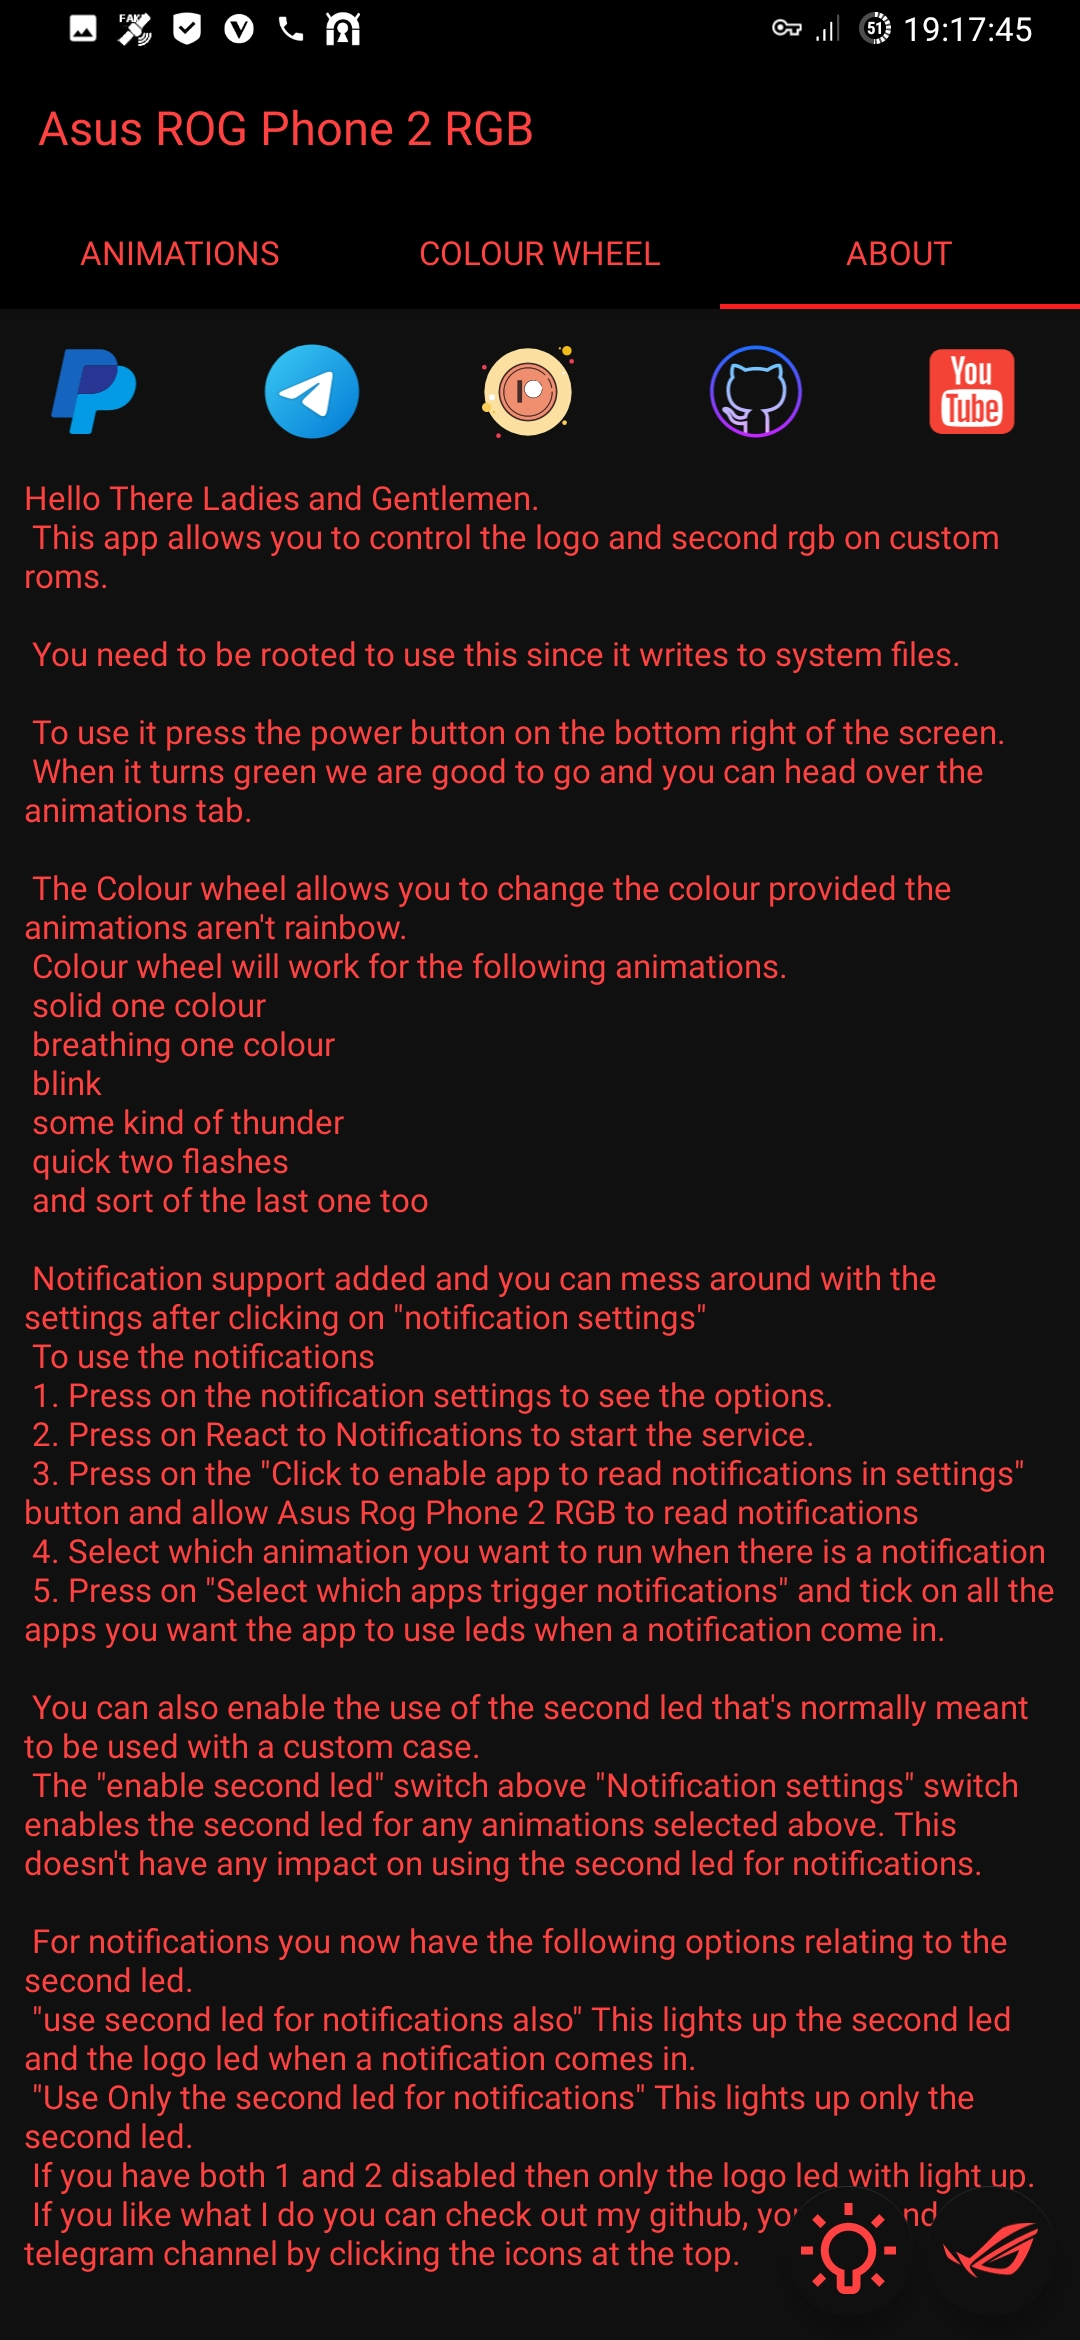
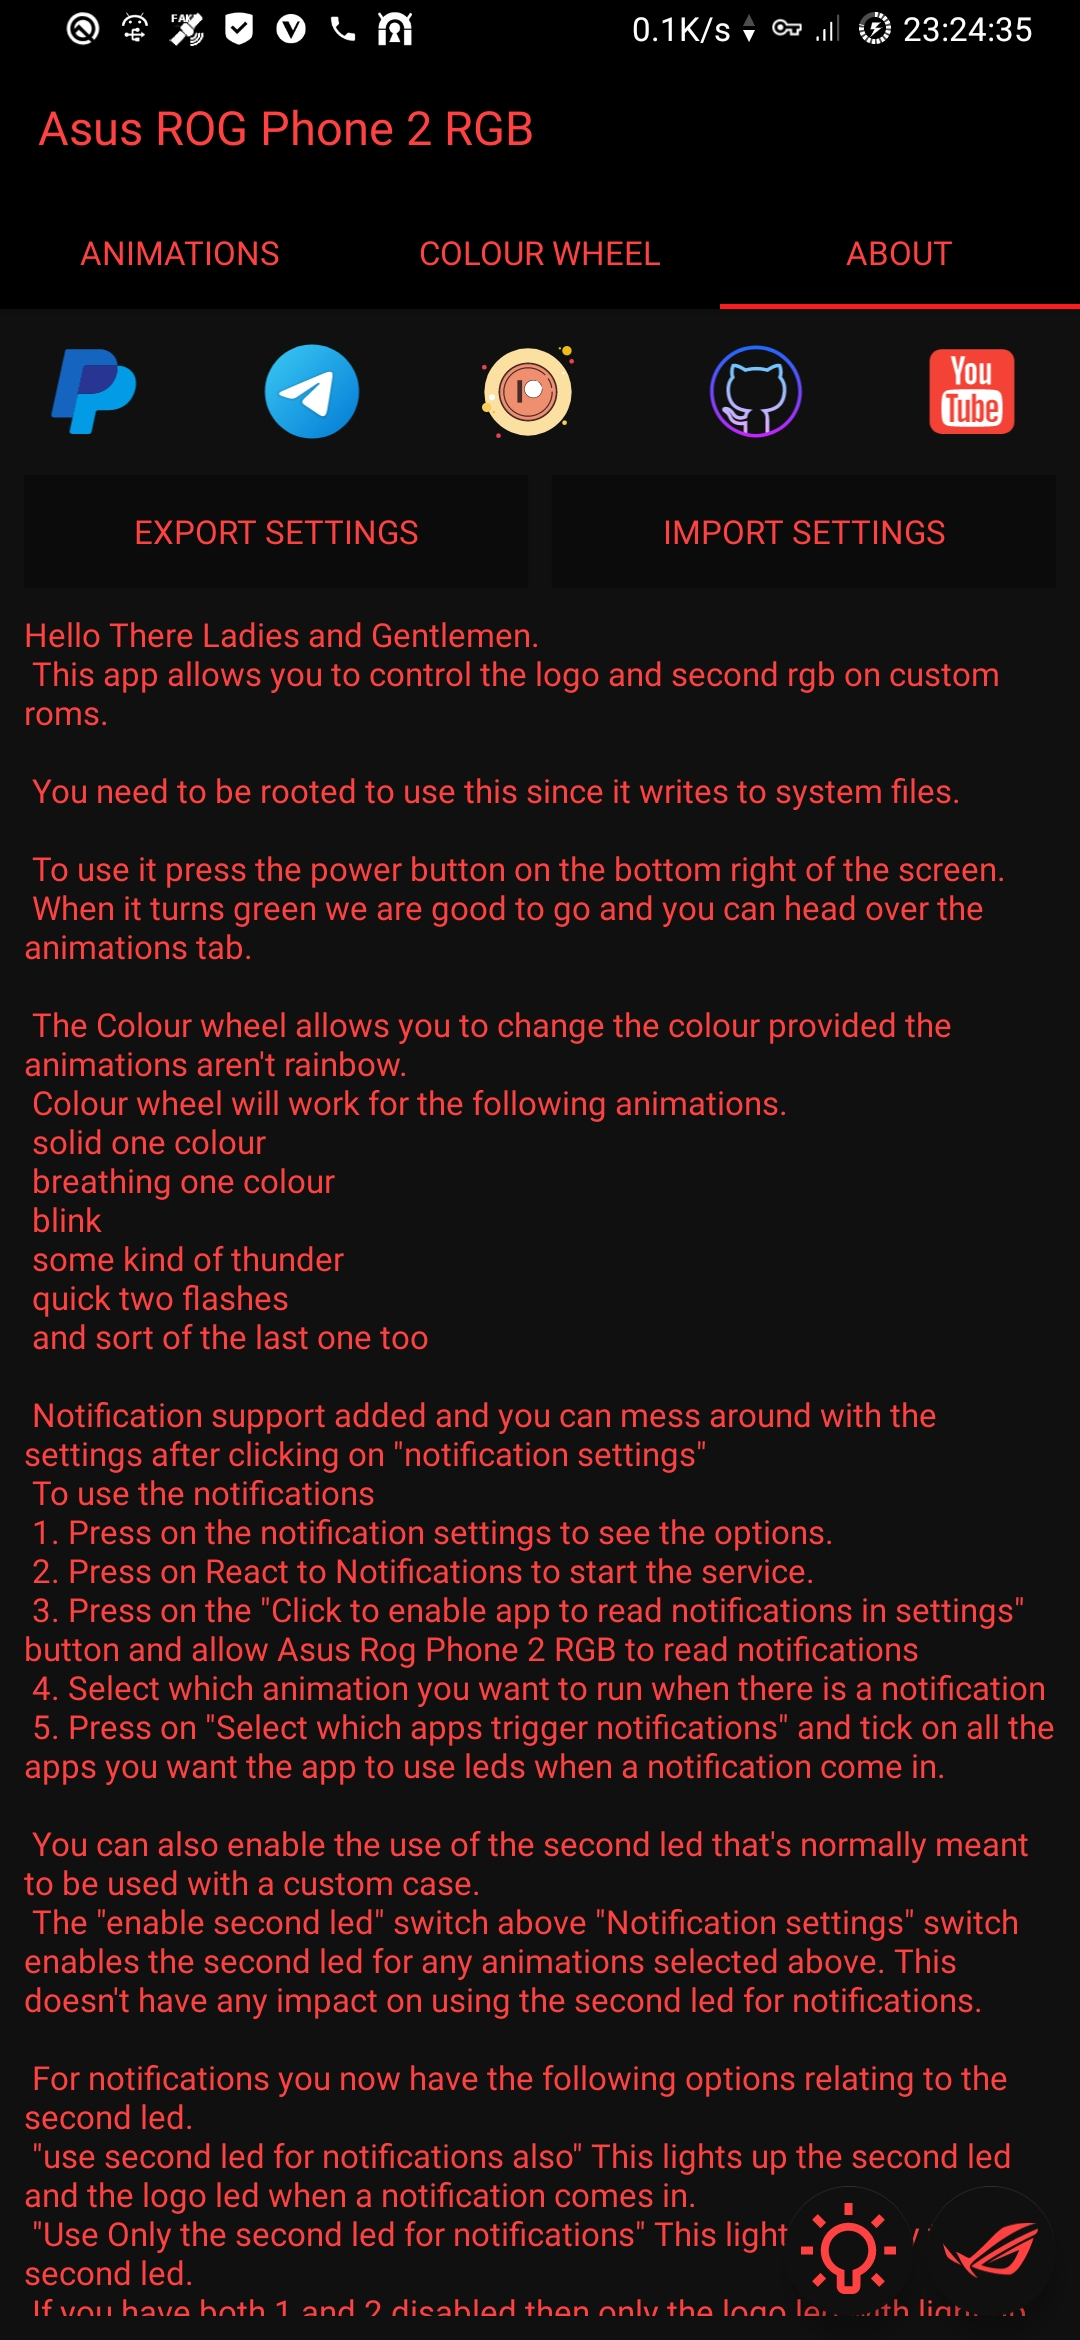
save and restore settings

diff --git a/app/src/main/java/terminal_heat_sink/asusrogphone2rgb/SystemWriter.java b/app/src/main/java/terminal_heat_sink/asusrogphone2rgb/SystemWriter.java
@@ -69,7 +69,6 @@ public class SystemWriter {
             p = Runtime.getRuntime().exec("su");
 
             DataOutputStream os = new DataOutputStream(p.getOutputStream());
-            DataInputStream in = new DataInputStream(p.getInputStream());
             os.writeBytes(command);
             // Close the terminal
             os.writeBytes("exit\n");
@@ -80,15 +79,6 @@ public class SystemWriter {
 
                     if(p.exitValue() == 0){
                         Log.i("SystemWriter","wrote successfully");
-
-//                        int i;
-//                        String output = "";
-//                        char c;
-//                        while((i = in.read())!=-1) {
-//                            c = (char)i;
-//                            output +=c;
-//                        }
-//                        Log.i("SystemWriter","inputstream="+output);
 
                     }else{
                         Log.i("SystemWriter","failed to write");
@@ -201,5 +191,13 @@ public class SystemWriter {
                 "echo 1 > "+ "/sys/class/leds/aura_sync/apply" + " \n ";
 
         write_to_sys(command,context);
+    }
+
+    public static void save_shared_preferences(Context context){
+        write_to_sys("cat /data/data/terminal_heat_sink.asusrogphone2rgb/shared_prefs/terminal_heat_sink.asusrogphone2rgb.xml > /sdcard/.terminal_heat_sink.asusrogphone2rgb.xml \n",context);
+    }
+
+    public static void restore_shared_preferences(Context context){
+        write_to_sys("cat /sdcard/.terminal_heat_sink.asusrogphone2rgb.xml > /data/data/terminal_heat_sink.asusrogphone2rgb/shared_prefs/terminal_heat_sink.asusrogphone2rgb.xml \n",context);
     }
 }

diff --git a/app/src/main/java/terminal_heat_sink/asusrogphone2rgb/AboutActivity.java b/app/src/main/java/terminal_heat_sink/asusrogphone2rgb/AboutActivity.java
@@ -7,6 +7,7 @@ import androidx.fragment.app.Fragment;
 import android.view.LayoutInflater;
 import android.view.View;
 import android.view.ViewGroup;
+import android.widget.Button;
 import android.widget.ImageView;
 import android.widget.ScrollView;
 import android.widget.TextView;
@@ -105,6 +106,29 @@ public class AboutActivity extends Fragment {
                 startActivity(intent);
             }
         });
+
+        Button export_settings = (Button) root.findViewById(R.id.export_settings);
+        export_settings.setOnClickListener(new View.OnClickListener() {
+            @Override
+            public void onClick(View view) {
+                SystemWriter.save_shared_preferences(getActivity().getApplicationContext());
+            }
+        });
+
+        Button import_settings = (Button) root.findViewById(R.id.import_settings);
+        import_settings.setOnClickListener(new View.OnClickListener() {
+            @Override
+            public void onClick(View view) {
+                SystemWriter.restore_shared_preferences(getActivity().getApplicationContext());
+                Intent i = getActivity().getApplicationContext().getPackageManager().
+                        getLaunchIntentForPackage(getActivity().getApplicationContext().getPackageName());
+                i.addFlags(Intent.FLAG_ACTIVITY_CLEAR_TOP);
+                i.addFlags(Intent.FLAG_ACTIVITY_NEW_TASK);
+                startActivity(i);
+                System.exit(0);
+            }
+        });
+
 
         scrollView.smoothScrollTo(0,0);
 
